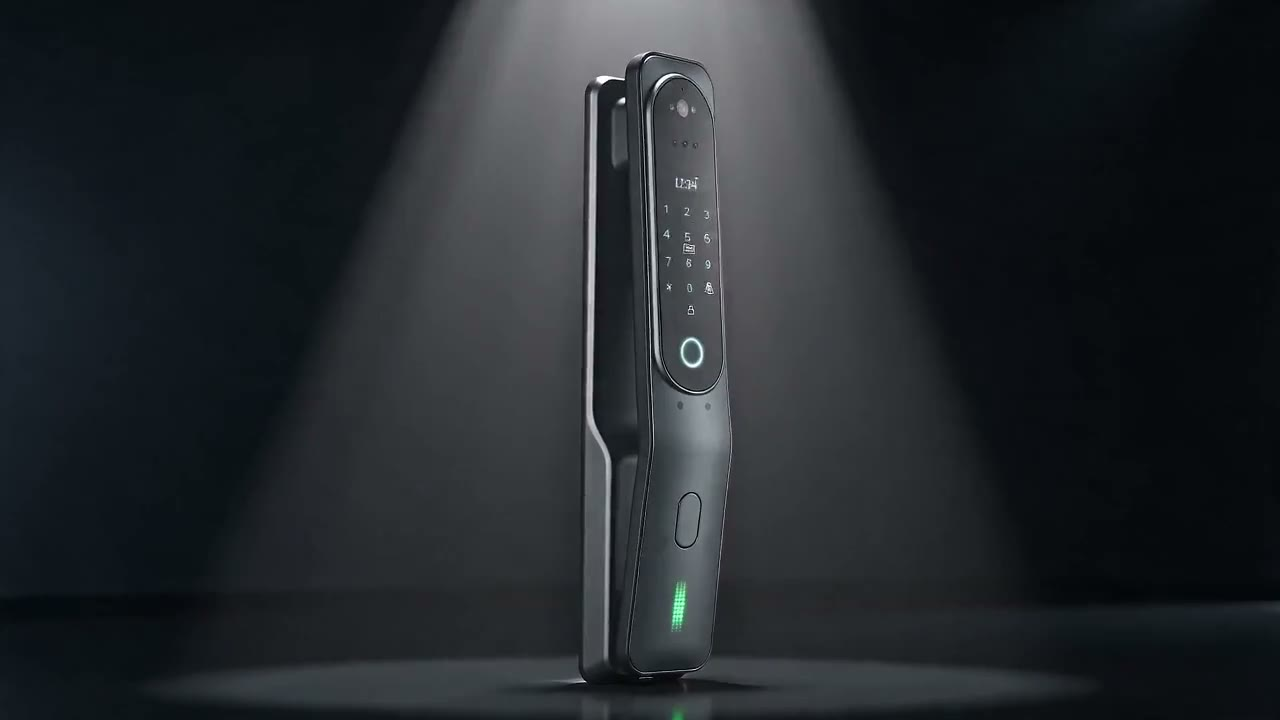
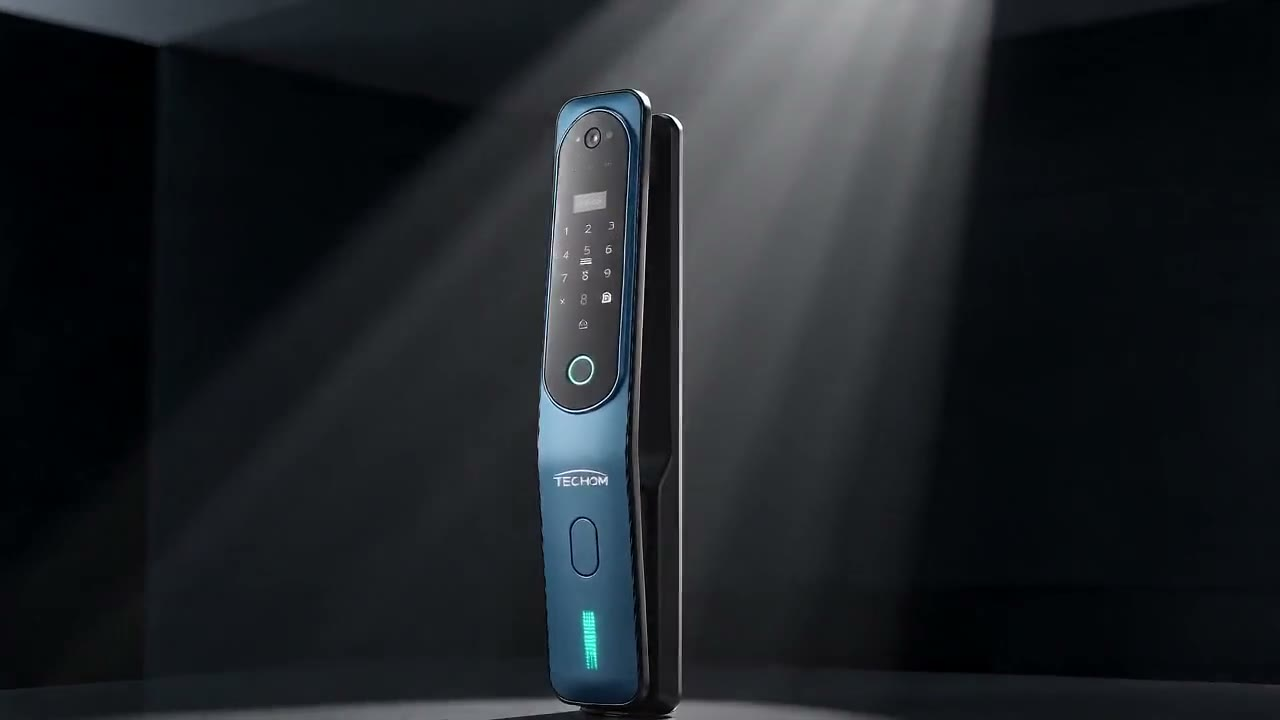
Real hero video with fixed CSS-layer text-color bug; fix accidental catalogBadge duplication across all 4 lock models (Smart Plus only)

diff --git a/site/src/app/globals.css b/site/src/app/globals.css
@@ -48,12 +48,14 @@ body {
   font-family: var(--font-body);
 }
 
-h1,
-h2,
-h3 {
-  font-family: var(--font-display);
-  color: var(--color-navy-deep);
-  text-wrap: balance;
+@layer base {
+  h1,
+  h2,
+  h3 {
+    font-family: var(--font-display);
+    color: var(--color-navy-deep);
+    text-wrap: balance;
+  }
 }
 
 .num {

diff --git a/site/src/app/page.tsx b/site/src/app/page.tsx
@@ -18,7 +18,7 @@ export default function HomePage() {
         <section className="relative flex min-h-[440px] items-center overflow-hidden bg-navy-deep py-16 text-cream sm:min-h-[600px] sm:py-24">
           <HeroVideo />
           <div
-            className="absolute inset-0 bg-gradient-to-l from-navy-deep/95 via-navy-deep/65 to-navy-deep/25"
+            className="absolute inset-0 bg-gradient-to-b from-navy-deep/25 via-navy-deep/55 to-navy-deep/92 sm:bg-gradient-to-l sm:from-navy-deep/95 sm:via-navy-deep/65 sm:to-navy-deep/25"
             aria-hidden="true"
           />
           <div className="relative mx-auto w-full max-w-[1180px] px-6 sm:px-8">

diff --git a/.claude/agent-memory/web-dev-agent/site-structure.md b/.claude/agent-memory/web-dev-agent/site-structure.md
@@ -51,5 +51,6 @@
 - **עודכן 2026-07-10 (סבב שמיני) — סט תמונות חדש ומלא למודל F (5 תמונות, החליף את הזוג המקורי) + הורדת Model 3 מהאתר.** (1) מודל F: המשתמש שלח תיקיית Drive חדשה עם 5 קבצי PNG; הוחלפו `hero.webp`/`angle-2.webp` הישנים ב-`hero.jpg` עד `angle-5.jpg` (5 תמונות, `lib/safes.ts` עודכן). אחת מהתמונות הגיעה עם רקע שקוף — נדרש `.flatten({background:"#ffffff"})` ב-sharp לפני JPEG כדי למנוע רקע שחור לא עקבי; תיעוד מלא ב-`product-page-agent/model-f.md`. (2) Model 3 (כספת בית מעוצבת) הוסר מ-`homeSafeProducts` ב-`lib/homeSafes.ts` לפי בקשת המשתמש ("תוריד כרגע") — הוסר גם `model3Colors` (הפך unused). אובייקט המוצר המלא תועד ב-`product-page-agent/home-safes.md` להשבה עתידית, כי אין git בפרויקט הזה. קטלוג `/safes/home` יורד מ-5 ל-4 דגמים; `/safes/home/model-3` מחזיר 404 (data-driven, לא נדרש שינוי ב-`[slug]/page.tsx`). אומת: `tsc`/`eslint` נקיים, כל העמודים הרלוונטיים נבדקו (200/404 לפי הצפוי), גלריה+לייטבוקס של מודל F נבדקו חזותית ב-Playwright.
 - **עודכן 2026-07-10 (סבב תשיעי) — checkout אמיתי + סליקת Cardcom נבנו לכל 11 המוצרים באתר, כולל order-bump cross-sell.** בקשת המשתמש: לחבר סליקה אמיתית בדפי מוצר (מנעולים/כספות/קורס בנפרד, לא עגלה כללית), checkout שיווקי-מכירתי עם כפתור CTA ברמה גבוהה, ו-cross-sell של 5% הנחה על מוצר משלים באותו מסך תשלום. **קוני הקורס לא רואים cross-sell כלל** (הוחלט במפורש). שכבת דאטה חדשה: `lib/courses.ts` (מוצר קורס יחיד, ₪790 — לא היה שדה מחיר לקורס בכלל לפני כן), `lib/checkout.ts` (`getCheckoutItem(slug)` — נקודת נורמליזציה יחידה מעל 4 מקורות דאטה שונים: מנעולים/כספות נשק/כספות בית/קורס, כל אחד עם צורת תמחור שונה), `lib/crossSell.ts` (מיפוי קבוע 10/11 slugs, מנעולים↔כספות בלבד, זיווג לפי טווח מחיר), `lib/format.ts` (`formatPrice` — helper משותף חדש, לא הוחל למפרעה על קוד קיים). `BuyNowButton.tsx` (CTA חדש) נוסף מעל טופס הליד הקיים (`ProductOrderForm`/`LeadForm`, **לא נמחק** — נשאר כאופציה משנית "יש לי שאלה לפני שרוכשים") בכל 4 דפי המוצר (מנעולים דרך `ProductHeroGallery.tsx`, כספות בית/נשק ישירות ב-`[slug]/page.tsx`, קורס ב-`courses/lock-installation/page.tsx` שגם קיבל תצוגת מחיר לראשונה). Route חדש `/checkout/[slug]` (יחיד לכל 11 ה-slugs, ללא prefix קטגוריה — כולם ייחודיים גלובלית) + `components/checkout/CheckoutFlow.tsx` (client component: הירו לפי קטגוריה בצבעי המותג הקיימים, תגי אמון, סיכום הזמנה שקוף עם פירוק מחיר/משלוח/התקנה, order-bump checkbox חי, טופס פרטים כולל אימייל — שדה חדש שלא נאסף באתר לפני כן). API חדש: `/api/checkout` (מחשב מחיר **בשרת בלבד**, דוחה תקיפת cross-sell מזויף עם 400 — נבדק בפועל), `/api/checkout/callback` (webhook, מאמת מול Cardcom עצמו לפני סימון הזמנה כמושלמת, אידמפוטנטי). `lib/cardcom.ts` מרכז את **כל** ההנחות הלא-מאומתות על מבנה ה-API של Cardcom (מסומנות `// TO VERIFY` בקוד — לא היו למשתמש/סוכן פרטי דשבורד/תיעוד Cardcom בזמן הבנייה), כולל מצב `CARDCOM_DRY_RUN=true` שמאפשר לבדוק את כל הזרימה בלי כסף אמיתי. `.env.local.example` + `.env.local` מקומי (dry-run) נוצרו; **המשתמש ימלא בעצמו credentials אמיתיים** (בחר במפורש לא להדביק אותם בצ'אט). `rateLimit.ts` חולץ מ-`/api/lead` לקובץ משותף (`createRateLimiter`/`getClientIp`) ונעשה בו שימוש חוזר גם ב-checkout, במקום לשכפל קוד — `/api/lead` עצמו לא השתנה התנהגותית. אומת מקצה לקצה ב-Playwright עם `CARDCOM_DRY_RUN=true`: alfa→checkout→toggle cross-sell (b600, 5% הנחה מוצג נכון)→טופס→"תשלום"→success page; checkout כספת (`ib250`) עם פירוק משלוח+התקנה נכון; checkout קורס (`lock-installation`) **ללא** cross-sell וללא שדה כתובת, בדיוק לפי ההחלטה; `/checkout/not-a-real-slug` מחזיר 404. `tsc`/`eslint` נקיים. ראה `payments-agent/provider-decision.md` ו-`security-compliance-agent/security-checklist.md` עדכוני 2026-07-10 לפירוט אבטחה/TO-VERIFY המלא לפני כסף אמיתי.
 - **עודכן 2026-07-09 (סבב חמישי) — תמונות מוצר אמיתיות + lightbox הורחבו לשאר 3 דגמי המנעולים (Model T/Smart Plus/Smart), ותמונת קטלוג נוספה ל-`locks/page.tsx`.** בקשת המשתמש הייתה מפורשת: "בדיוק כמו ALFA". שני תיקוני קוד קטנים נדרשו פעם אחת ונשארו יציבים לכל 3 הדגמים בלי שינוי נוסף: (1) `locks/page.tsx` — כרטיס קטלוג כל דגם מציג `p.images?.[p.colors[0]?.id]` אם קיים, אחרת גרדיאנט; (2) `ProductHeroGallery.tsx` — תמונות התקנה הן `<button>` שפותח `InstallPhotoLightbox` (מסך מלא, ניווט חצים/מקלדת, סגירה ב-Escape/רקע/✕). שתי התוספות היו גנריות מהיום הראשון (נבנו בסבב ALFA), כך שהוספת 3 הדגמים דרשה **רק דאטה חדשה** ב-`lib/locks.ts` (`images`/`installPhotos` לכל דגם) — אין שינוי קוד/component. תמונות נשמרו תחת `site/public/images/locks/{model-t,smart-plus,smart}/`, כווצו/הומרו ב-`sharp` (כמה קבצי מקור היו מגה-בייטים בודדים, כולל PNG אחד 1.17MB שהומר ל-JPEG). **כעת כל 4 דגמי המנעולים (ALFA/Model T/Smart Plus/Smart) כוללים תמונות אמיתיות + גלריית התקנות + lightbox** — אין עוד gradient placeholder בקטגוריית המנעולים. ראה `product-page-agent/model-t.md`, `smart-plus.md`, `smart.md` לפירוט מקור/קבצים מלא לכל דגם.
+- **עודכן 2026-07-13 (סבב אחד-עשר) — `NightHero` (CSS placeholder) הוחלף בוידאו Hero אמיתי במסך מלא, נוצר ב-Higgsfield MCP.** בקשת המשתמש: וידאו הדגמה למנעול חכם שיתפרש על פני **כל** אזור ה-Hero (לא קופסה צדדית), עם הטקסט/כפתורים מונחים מעליו. `HeroVideo.tsx` (client component חדש) — `<video>` עם `object-cover`+`poster`, `aria-hidden` (דקורטיבי מאחורי טקסט משמעותי), autoplay מופעל דרך JS (`video.play()` ב-`useEffect`, לא attribute `autoPlay`) כדי לכבד `prefers-reduced-motion` בלי הבזק תנועה — אם המשתמש ביקש reduced motion, `.play()` פשוט לא נקרא ונשאר ה-poster. `page.tsx` הירו שונה ממבנה grid דו-טורי לפריסת שכבות: `<HeroVideo/>` (רקע מלא) + `<div>` scrim גרדיאנט (כיוון שונה למובייל מול desktop — ראה בהמשך) + תוכן טקסט ב-`relative z`. `NightHero.tsx` נמחק (לא נמצא שימוש נוסף בגרפ). **וידאו ראשון (8 שנ')** נוצר מ-3 תמונות זוויות ALFA/Model T עם Higgsfield `seedance_2_0` (נדחה, 403 — דורש תוכנית Pro/Ultimate) ואז `seedance_2_0_mini` (עבד, זמין ב-starter plan), `image_references` role, `generate_audio:false`. **המשתמש ביקש עדכון** (סרטון שני, 6 שנ', "נוכחות חזקה על המוצר", העלה תמונת Model T כחול בודדת) — נוצר מחדש ואותם קבצי יעד הוחלפו (`public/videos/homepage-hero-model-t-demo.mp4`, `public/images/homepage-hero-model-t-demo-poster.jpg`) כדי ש-`HeroVideo.tsx` לא יזדקק לשינוי קוד. תמונות מקור (`hero source/`) לא ב-git — הועלו ל-Higgsfield דרך `media_upload`+curl PUT+`media_confirm` (widget לא נתמך בסביבה זו, "MCP Apps UI" לא זמין; הודעת fallback של הכלי הנחתה בדיוק את המסלול הזה). **באג CSS קדם-קיים התגלה ותוקן תוך כדי:** `h1,h2,h3{color:navy-deep}` ב-`globals.css` לא היה עטוף ב-`@layer base` → לפי CSS Cascade Layers, כלל לא-מסווג (unlayered) מנצח כל כלל מסווג (`.text-cream` ב-`@layer utilities` של Tailwind) **ללא קשר לספציפיות** — כתוצאה מכך ה-H1 של ההירו (וה-H2 של "מי מייצר, מי מתקין") תמיד עיבדו navy-על-navy, כמעט בלתי נראים, פשוט לא הבחינו בזה כי הרקע היה קודם צבע אחיד. תוקן בעטיפת הכלל ב-`@layer base {}` — אומת חזותית ש-2 הכותרות עברו לקרם, אין שינוי בשאר האתר (רוב הכותרות ללא override צבע כלל). **תיקון נוסף למובייל:** scrim הפוך לכיוון (`bg-gradient-to-b`, לא `bg-gradient-to-l`) מתחת ל-`sm:` — בפריסת עמודה יחידה (מובייל) הכפתורים/badges התנגשו ויזואלית עם המוצר בוידאו; גרדיאנט אנכי כהה-יותר-למטה נתן הפרדה נקייה בלי לפגוע בנוכחות המוצר למעלה. אומת: `tsc`/`eslint` נקיים, Playwright desktop(1440)+mobile(390) לפני/אחרי כל תיקון, `video.paused===false` אחרי mount (autoplay פעיל), אין console errors/warnings. וידאו סופי: 6 שנ', 668KB, ללא אודיו, H.264+faststart.
 - **עודכן 2026-07-10 (סבב עשירי) — 3 תיקוני checkout לפני מסירת פרטי Cardcom: cross-sell תמיד ALFA לכספות, אין cross-sell למנעולים/קורס, ואיסוף עצמאי לכספות.** `lib/crossSell.ts` נכתב מחדש — רק כספות (נשק+בית) מציעות cross-sell, תמיד `alfa` ("המנעול המתקדם ביותר בישראל"), לא זיווג לפי מחיר יותר; מנעולים וקורס לא מציעים cross-sell בכלל (הוסרו לגמרי מהמפה, לא רק "לא נוספו"). `lib/checkout.ts` קיבל `PICKUP_LOCATION`/`FulfillmentMethod` — `CheckoutFlow.tsx` מציג radio "משלוח עד הבית"/"איסוף עצמאי מאולם התצוגה" רק לכספות (`isSafe`); באיסוף עצמאי שדה הכתובת והתקנה מקצועית נעלמים (הנחת עיצוב: התקנה דורשת הגעת טכנאי לכתובת, לא רלוונטי עם איסוף עצמאי — לא אושרה מפורשות מול המשתמש, ראה `payments-agent/provider-decision.md` להערה). `/api/checkout` אוכף הכל בשרת — מתעלם מ-`includeInstallation` אם `fulfillment==="pickup"`, לא דורש כתובת. אומת: `tsc`/`eslint` נקיים, curl (כולל ניסיון תקיפה) ו-Playwright חזותי. ראה `payments-agent/provider-decision.md` עדכון 2026-07-10 (סבב שלישי) לפירוט המלא.
 - **עודכן 2026-07-09 (סבב שלישי) — עמוד הקורס `courses/lock-installation` שוכתב במלואו סביב סילבוס אמיתי שסופק (PDF).** 7 פרקים/24 שיעורים, מבחן אמריקאי, תעודת מתקין מוסמך, ליווי אישי בבית לקוח, 3 הטבות בוגר (מחירון מתקין, הפניית לקוחות, תמיכה טכנית). הוסרה עובדה מומצאת מהגרסה הקודמת ("3 ימי הכשרה", לא הייתה מבוססת מקור) והוסר כרטיס קורס פיקטיבי שני מ-`courses/page.tsx` (slug כפול, לא route אמיתי). **החלטת מיתוג:** מקור הסילבוס ממותג "TECH.PRO" (כולל טענת "לראשונה בישראל") — **לא** הועתק מיתוג/טענת-על זו לאתר; כל התוכן מוצג תחת המוקד בלבד, עקבי עם עמדת "מותג אחד" ב-CLAUDE.md. יש לברר מול המשתמש אם TechPro הוא שותף תוכן בפועל שדורש קרדיט גלוי. אין `lib/*.ts` חדש — קורס יחיד עדיין מוצדק כ-route סטטי, לא דינמי. ראה `product-marketing-strategy-agent/courses.md` ו-`product-page-agent/courses.md` לפירוט המלא (כולל מחיר קורס שטרם נקבע, מספר ימי ליווי לא צוין במקור).